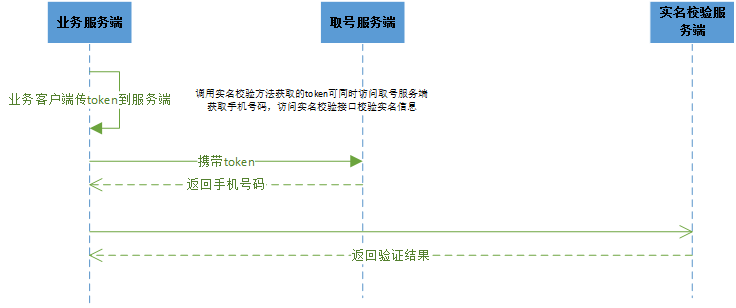
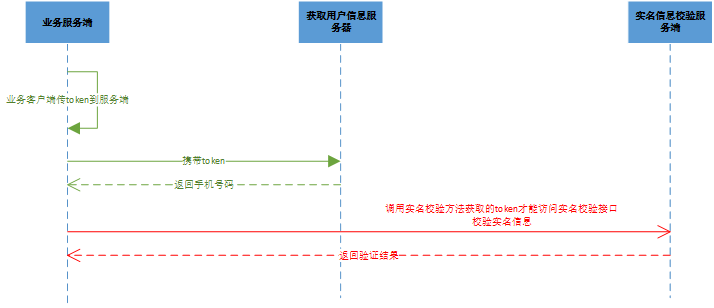
V1

diff --git a/ID_Auth_Android.md b/ID_Auth_Android.md
@@ -18,8 +18,8 @@ sdk技术问题沟通QQ群：609994083</br>
 ## 1.2. 导入SDK的jar文件
 
 1. 将`quick_login_android_**.jar`拷贝到应用工程的libs目录下，如没有该目录，可新建；
-2. 将sdk所需要的证书文件`clientCert.crt`、`serverPublicKey.pem`拷贝到项目`assets`目录下。
-3. 将sdk所需要的资源文件（anim, drawable, drawable-xxhdpi, layout, values文件，具体可参考demo工程）从res目录下的文件添加到项目工程中，如图：
+2. 将sdk所需要的证书文件`clientCert.crt`、`serverPublicKey.pem`拷贝到项目`assets`目录下（证书需要从demo源码中拷贝到开发者的工程中）；
+3. 将sdk所需要的资源文件（anim, drawable, drawable-xxhdpi, layout, values文件，具体可参考demo工程）从res目录下的文件添加到项目工程中。
 
 </br>
 
@@ -108,8 +108,10 @@ mListener = new TokenListener() {
 **3. 接口调用**
 
 ```java
-mAuthnHelper.getTokenExp(Constant.APP_ID, Constant.APP_KEY,
-                 AuthnHelper.AUTH_TYPE_DYNAMIC_SMS + AuthnHelper.AUTH_TYPE_SMS, mListener);
+mAuthnHelper.getTokenExp(Constant.APP_ID, 
+                         Constant.APP_KEY,
+                         AuthnHelper.AUTH_TYPE_DYNAMIC_SMS +                                                    AuthnHelper.AUTH_TYPE_SMS,
+                         mListener);
 ```
 
 <div STYLE="page-break-after: always;"></div>
@@ -146,15 +148,11 @@ public AuthnHelper (Context context)
 
 **功能**
 
-使用SDK登录前，可以通过预取号方法提前获取用户信息并缓存。用户使用一键登录时，会优先使用缓存的信息快速请求SDK服务端获取`token`和`用户ID(openID)`等信息，提高登录速度。缓存的有效时间是5min并且只能使用一次。预取号成功后，如果用户成功进入授权页，但未授权给应用（未点一键登录按钮），并返回到上一级页面，预取号缓存将失效，预取号缓存失效后，用户再次使用显式登录时，将使用常规流程获取token信息。**注：预取号方法仅对显式登录有效。**
+使用SDK登录前，可以通过预取号方法提前获取用户信息并缓存。用户使用一键登录时，会优先使用缓存的信息快速请求SDK服务端获取`token`和`用户ID(openID)`等信息，提高登录速度。缓存的有效时间是5min并且只能使用一次。预取号成功后，如果用户成功进入授权页，但未授权给应用（未点一键登录按钮），并返回到上一级页面，预取号缓存将失效，预取号缓存失效后，用户再次使用显式登录时，将使用常规流程获取token信息。
 
 **注意：预取号前，开发者需提前申请`READ_PHONE_STATE`权限，否则预取号会失败！**
 
 </br>
-
-**方法调用逻辑**
-
-![](image/pre_process.png)
 
 **原型**
 
@@ -220,15 +218,9 @@ mAuthnHelper.umcLoginPre(Constant.APP_ID,
 
 SDK自动弹出登录缓冲界面（图一，<font  style="color:blue; font-style:italic;">预取号成功将不会弹出缓冲页</font>），若取号成功，自动切换到授权登录页面（图二），用户授权登录后，即可使用本机号码进行登录；若用户获取本机号码失败，自动跳转到短信验证码登录页面（图三，<font  style="color:blue; font-style:italic;">开发者可以选择是否跳到SDK提供的短信验证页面</font>），引导用户使用短信验证码登录。
 
-![](image/20.png)
+![](getTokenExp.png)
 
 用户授权登录后，统一认证平台将`token`和`用户ID(openID)`等信息返回到应用服务端。 
-
-**方法调用逻辑**
-
-![](image/ext_process.png)
-
-</br>
 
 **原型**
 
@@ -301,85 +293,13 @@ mAuthnHelper.getTokenExp(Constant.APP_ID, Constant.APP_KEY,
 
 </br>
 
-## 2.4. 隐式登录
-
-### 2.4.1. 方法描述
-
-**功能**
-
-本方法目前只能用于实现**本机号码校验**功能。开发者通过隐式登录方法，无授权弹窗，可获取到token和openID（需在开放平台勾选相关能力），应用服务端凭token向SDK服务端请求校验是否本机号码。隐式取号失败后，不支持短信上行和短信验证码二次验证。注：隐式登录返回的token无法通过`获取用户信息接口`换取手机号码，只支持通过`本机号码校验接口`校验用户手机号码身份，否则会报错。
-
-**注意：隐式登录前，开发者需提前申请`READ_PHONE_STATE`权限，否则会失败！**
-
-</br>
-
-**方法调用逻辑**
-
-![](image/imp_process.png)
-
-**原型**
-
-```java
-public void getTokenImp(final String appId, 
-            final String appKey,
-            final TokenListener listener)
-```
-
-</br>
-
-### 2.4.2. 参数说明
-
-**请求参数**
-
-| 参数       | 类型            | 说明                                       |
-| :------- | :------------ | :--------------------------------------- |
-| appId    | String        | 应用的AppID                                 |
-| appkey   | String        | 应用密钥                                     |
-| listener | TokenListener | TokenListener为回调监听器，是一个java接口，需要调用者自己实现；TokenListener是接口中的认证登录token回调接口，OnGetTokenComplete是该接口中唯一的抽象方法，即void OnGetTokenComplete(JSONObject  jsonobj) |
-
-</br>
-
-**响应参数**
-
-OnGetTokenComplete的参数JSONObject，含义如下：
-
-| 字段          | 类型     | 含义                                       |
-| ----------- | ------ | ---------------------------------------- |
-| resultCode  | Int    | 接口返回码，“103000”为成功。具体响应码见4.1 SDK返回码       |
-| authType    | Int    | 登录类型。                                    |
-| authTypeDes | String | 登录类型中文描述。                                |
-| openId      | String | 用户身份唯一标识（参数需在开放平台勾选相关能力后开放，如果勾选了一键登录能力，使用本方法时，不返回OpenID） |
-| token       | String | 成功返回:临时凭证，token有效期2min，一次有效，同一用户（手机号）10分钟内获取token且未使用的数量不超过30个 |
-
-</br>
-
-### 2.4.3. 示例
-
-**请求示例代码**
-
-```java
-mAuthnHelper.getTokenImp(Constant.APP_ID, Constant.APP_KEY,mListener);
-```
-
-**响应示例代码**
-
-```
-{
-    "resultCode": "103000",
-    "authType": "2",
-    "authTypeDes": "网关鉴权",
-    "openId": "003JI1Jg1rmApSg6yG0ydUgLWZ4Bnx0rb4wtWLtyDRc0WAWoAUmE",
-    "token": "STsid0000001512438403572hQSEygBwiYc9fIw0vExdI4X3GMkI5UVw",
-}
-```
-
-## 2.5. 实名认证获取token
+## 2.5. 实名认证
 
 ### 2.5.1. 方法描述
 
 **功能**
 
-本方法用于实现获取用户信息和实名认证，通过实名认证获取token，获取到的token既能通过获取用户信息接口获取手机号码，同时还能通过实名认证接口校验三要素：手机号码，身份证，姓名是否正确。
+本方法用于实现获取用户信息和实名认证，通过实名认证获取token，获取到的token既能通过获取用户信息接口获取手机号码，同时还能通过实名认证接口校验三要素：手机号码，身份证，姓名是否正确。token在2分钟内有效。
 
 **注意：不支持短信验证码的登录方式！**
 </br>
@@ -387,8 +307,10 @@ mAuthnHelper.getTokenImp(Constant.APP_ID, Constant.APP_KEY,mListener);
 **原型**
 
 ```java
-public void getIDToken(final String appId, final String appKey, 
-                final String authType, final TokenListener listener) 
+public void getIDToken(final String appId, 
+                       final String appKey,
+                       final String authType, 
+                       final TokenListener listener) 
 ```
 
 </br>
@@ -410,14 +332,14 @@ public void getIDToken(final String appId, final String appKey,
 
 OnGetTokenComplete的参数JSONObject，含义如下：
 
-| 字段          | 类型     | 含义                                       |
-| ----------- | ------ | ---------------------------------------- |
-| resultCode  | Int    | 接口返回码，“103000”为成功。具体响应码见4.1 SDK返回码       |
-| resultDesc  | String | 失败时返回：返回错误码说明                            |
+| 字段        | 类型   | 含义                                                         |
+| ----------- | ------ | ------------------------------------------------------------ |
+| resultCode  | Int    | 接口返回码，“103000”为成功。具体响应码见4.1 SDK返回码        |
+| resultDesc  | String | 失败时返回：返回错误码说明                                   |
 | authType    | String | 认证类型：0:其他；</br>1:WiFi下网关鉴权；</br>2:网关鉴权；</br>3:短信上行鉴权；</br>7:短信验证码登录 |
-| authTypeDec | String | 认证类型描述，对应authType                        |
-| token       | String | 成功时返回：临时凭证，token有效期2min，一次有效；同一用户（手机号）10分钟内获取token且未使用的数量不超过30个 |
-| openId      | String | 成功时返回：用户身份唯一标识                           |
+| authTypeDec | String | 认证类型描述，对应authType                                   |
+| token       | String | 成功时返回：临时凭证，token有效期2min；同一用户（手机号）10分钟内获取token且未使用的数量不超过30个 |
+| openId      | String | 成功时返回：用户身份唯一标识                                 |
 
 </br>
 
@@ -447,7 +369,7 @@ mAuthnHelper.getIDToken(Constant.APP_ID, Constant.APP_KEY,
 
 ###2.6.1. 方法描述
 
-设置取号超时时间，默认为8秒，应用在预取号、隐式登录阶段时，如果需要更改超时时间，可使用该方法配置。
+设置取号超时时间，默认为8秒，应用在预取号阶段时，如果需要更改超时时间，可使用该方法配置。注
 
 **原型**
 
@@ -467,75 +389,17 @@ public void setTimeOut(int timeOut)
 
 无
 
-## 2.7. 资源界面配置说明
-
-SDK**登录授权页**和**短信验证码页面**部分元素可供开发者编辑，如开发者不需自定义，则使用SDK提供的默认样式，建议开发者按照开发者自定义规则个性化授权页面和短信验证页面：
-
-###2.7.1. 授权登录页面 
-
-![logo](image/auth-page.png)
-
-### 2.7.2. 短信验证码页面
-
-![button-text](image/sms-page.png)
-
-### 2.7.3. 开发者自定义控件
-
-开发者可以在布局文件`umcsdk_login_authority.xml`、`umcsdk_oauth.xml`、`umcsdk_oauth.xml`中添加控件并添加事件，并为添加的控件绑定事件代码：</br>
-
-```java
-private RegistListener registListener;
-registListener = RegistListener.getInstance();
-registListener.add("test_tv", new CustomInterface() {
-    @Override
-    public void onClick(Context context) {
-        Toast.makeText(mContext, "this is custom view", Toast.LENGTH_SHORT).show();
-    }
-});
-```
-
-其中`registListener.add("test_tv",new CustomInterface(){})`第一个参数为所添加自定义控件的id，第二个参数为这个控件所要绑定的事件。注：此Context为applicationContext。
-
-**PS:授权页面关闭配置：** 
-
-在授权页umcsdk_login_authority.xml中添加自定义控件，id命名为umcskd_authority_finish。 
-
-```java
-<TextView
-android:id="@+id/umcskd_authority_finish"
-android:layout_width="wrap_content"
-android:layout_height="wrap_content"
-android:text="关闭页面"
-android:textColor="#0080cc"
-android:textSize="30sp"/>
-```
-
-通过注册自定义控件的方式添加事件，执行完操作之后如下例子中toast "finish"之后授权页会自动关闭。 
-
-```java
-private RegistListener registListener;
-registListener = RegistListener.getInstance();
-registListener.add("umcskd_authority_finish", new CustomInterface() {
-@Override
-public void onClick(Context context) {
-Toast.makeText(mContext, "finish", Toast.LENGTH_SHORT).show();
-}
-});
-```
-
-<div STYLE="page-break-after: always;"></div>
-
 # 3. 平台接口说明
 
 ## 3.1. 获取用户信息接口
 
-业务平台或服务端携带用户授权成功后的token来调用统一认证服务端获取用户手机号码等信息。**注：本接口仅适用于5.3.0及以上版本SDK**
+业务平台或服务端携带用户授权成功后的token来调用统一认证服务端获取用户手机号码等信息。
 
 ### 3.1.1. 业务流程
 
-SDK在获取token过程中，用户手机必须在打开数据网络情况下才能获取成功，纯wifi环境下会自动跳转到SDK的短信验证码页面（如果有配置）或者返回错误码
+应用客户端可以通过`显式登录`方法或`实名认证`方法去获取token，两种方式获取到的token均可以访问`获取用户信息接口`，成功获取用户的手机号码。
 
-![](image/19.png)
+![](ID_Auth_server_interact.png)
 
 ### 3.1.2. 接口说明
 
@@ -611,7 +475,9 @@ SDK在获取token过程中，用户手机必须在打开数据网络情况下才
 
 ### 3.2.1. 业务流程
 
-![](..\ID_Auth_server_interact.png)
+应用客户端只能通过`实名认证`方法获取到的token，才允许访问`实名信息校验接口`，校验用户的身份信息。**补充：**通过实名认证方法获取的token，可以同时访问获取用户信息接口和实名信息校验接口，token在2分钟内有效，该token对于获取用户信息接口，一次有效（取号后token失效）；对于实名信息校验接口，有效次数可配置（具体需联系移动认证方确认）。
+
+![](ID_Auth_server_interact.png)
 
 ### 3.2.2. 接口说明
 
@@ -666,7 +532,7 @@ SDK在获取token过程中，用户手机必须在打开数据网络情况下才
 
 | **参数名称** | **参数说明**                                                 | **是否必填** | **数据类型** |
 | ------------ | ------------------------------------------------------------ | ------------ | ------------ |
-| resultDesc   | 返回结果描述信息：</br>000:实名信息校验成功  </br>001:实名信息校验失败  </br>002: 非本机号码  </br>124:白名单校验失败  </br>302:签名校验不通过  </br>303:解析参数错误  </br>606:token校验失败  </br>999:系统异常  </br>其中，000、001、002状态纳入计费次数 | 是           | String       |
+| resultDesc   | 返回结果描述信息（参考4.3实名信息校验接口返回码）            | 是           | String       |
 | message      | 接入方预留参数，该参数会透传给通知接口，此参数需urlencode编码 | String       | 否           |
 | expandParams | 扩展参数格式：param1=value1\|param2=value2 方式传递，参数以竖线 \| 间隔方式传递，此参数需urlencode编码。 | String       | 否           |
 
